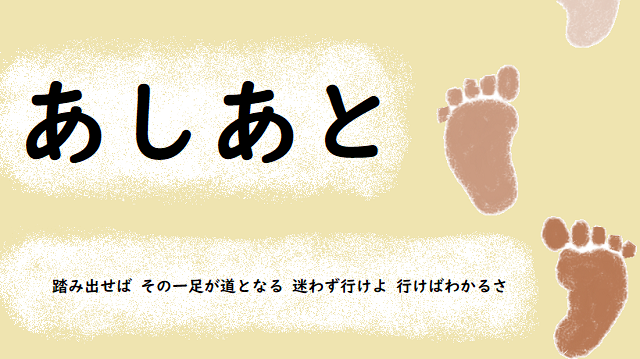
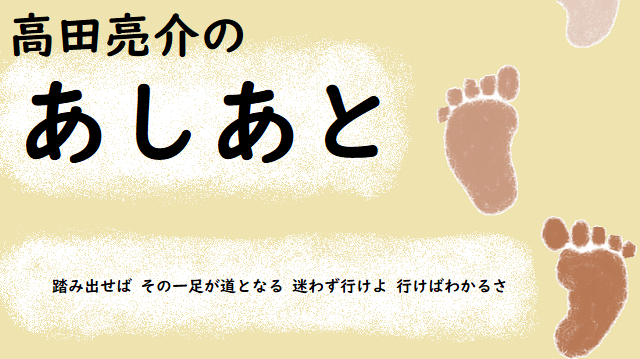
change title

Changed region(s): [[0.0, 0.0306, 0.4062, 0.1532]]

diff --git a/nuxt.config.js b/nuxt.config.js
@@ -8,7 +8,7 @@ export default {
   head: {
     // titleTemplate: '%s - ' + process.env.npm_package_name,
     // title: process.env.npm_package_name || '',
-    title: 'あしあと',
+    title: '高田亮介のあしあと | Ryosuke TAKATA',
     meta: [
       { charset: 'utf-8' },
       { name: 'viewport', content: 'width=device-width, initial-scale=1' },

diff --git a/pages/products.vue b/pages/products.vue
@@ -1,6 +1,6 @@
 <template>
   <v-container>
-    <Header title="あしあと - Products" />
+    <Header title="高田亮介のあしあと - Products" />
     <v-row justify="center">
       <v-col md="6" cols="12">
         <title-image />

diff --git a/pages/research.vue b/pages/research.vue
@@ -1,6 +1,6 @@
 <template>
   <v-container>
-    <Header title="あしあと - Research" />
+    <Header title="高田亮介のあしあと - Research" />
     <v-row justify="center">
       <v-col md="6" cols="12">
         <title-image />

diff --git a/pages/profile.vue b/pages/profile.vue
@@ -1,6 +1,6 @@
 <template>
   <v-container>
-    <Header title="あしあと - Profile" />
+    <Header title="高田亮介のあしあと - Profile" />
     <v-row justify="center">
       <v-col md="6" cols="12">
         <title-image />

diff --git a/pages/videos.vue b/pages/videos.vue
@@ -1,6 +1,6 @@
 <template>
   <v-container>
-    <Header title="あしあと - Videos" />
+    <Header title="高田亮介のあしあと - Videos" />
     <v-row justify="center">
       <v-col md="6" cols="12">
         <title-image />

diff --git a/pages/games.vue b/pages/games.vue
@@ -1,6 +1,6 @@
 <template>
   <v-container>
-    <Header title="あしあと - Games" />
+    <Header title="高田亮介のあしあと - Games" />
     <v-row justify="center">
       <v-col md="6" cols="12">
         <title-image />

diff --git a/pages/links.vue b/pages/links.vue
@@ -1,6 +1,6 @@
 <template>
   <v-container>
-    <Header title="あしあと - Links" />
+    <Header title="高田亮介のあしあと - Links" />
     <v-row justify="center">
       <v-col md="6" cols="12">
         <title-image />

diff --git a/pages/tools.vue b/pages/tools.vue
@@ -1,6 +1,6 @@
 <template>
   <v-container>
-    <Header title="あしあと - Tools" />
+    <Header title="高田亮介のあしあと - Tools" />
     <v-row justify="center">
       <v-col md="6" cols="12">
         <title-image />

diff --git a/pages/index.vue b/pages/index.vue
@@ -1,6 +1,6 @@
 <template>
   <v-container>
-    <Header title="あしあと - Home" />
+    <Header title="高田亮介のあしあと - Home" />
     <v-row justify="center">
       <v-col md="6" cols="12">
         <title-image />
